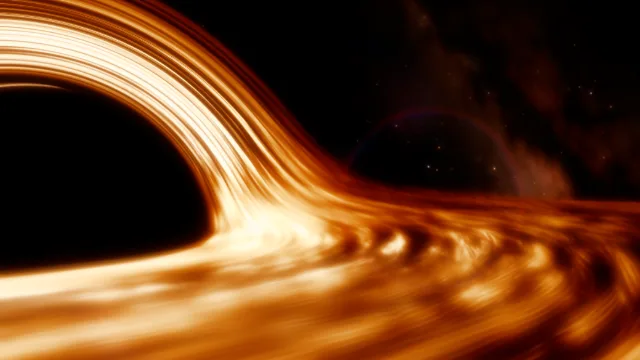
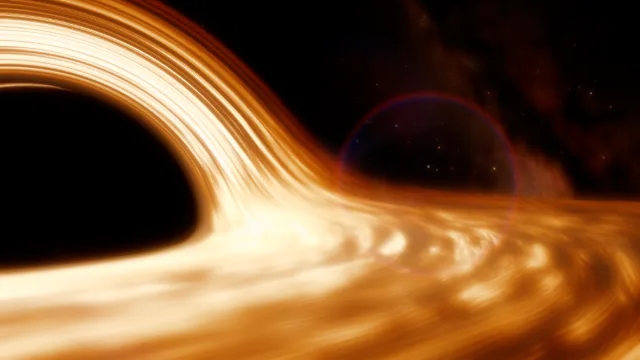
The disk's haze: a luminous mist over the near side, as in the film
- a thin scattering envelope hugging the volumetric disk (e^{-|z|/1.5H},
  vertical depth 0.2 x haze), lit by the disk's hot heart ((10/R)^2): a faint
  veil from above, grazing a luminous mist that thickens to the burnt band
  at the disk's horizon; its source and the gas's weighted by their depths
- setting "Haze" (Accretion disk, volumetric only); the film's close-pass
  preset at 0.6; negligible cost
- the flare's ring: its strength saturating (1.5 at most)

diff --git a/src/settings.ts b/src/settings.ts
@@ -85,6 +85,7 @@ export interface Settings {
   diskEmission: "visible" | "bolometric";
   diskTau: number; // vertical optical depth
   diskThickness: number; // scale height H/R (0 = infinitely thin slab)
+  diskHaze: number; // the scattering mist over the volumetric disk (0: none)
   flowPeriod: number; // M (no longer a setting: the GPU clock wraps after 1024 of them)
   // relativistic jet
   jet: boolean;
@@ -264,6 +265,7 @@ export function defaultSettings(): Settings {
     diskEmission: "visible",
     diskTau: 0.5,
     diskThickness: 0,
+    diskHaze: 0,
     flowPeriod: 90,
     jet: true,
     jetLorentz: 3,
@@ -424,7 +426,7 @@ export const presets: Record<string, Preset> = {
     spin: 0.6, distance: 17.353, inclination: 84.456, azimuth: 40.467, fov: 45, yaw: 31.427, pitch: 6.397, roll: -4.302,
     motion: "static", shiftMode: "none", diskTemp: 4500, diskOuter: 26, turbulence: 0.95, diskEmission: "bolometric",
     diskThickness: 0.009, diskTau: 59, jet: false, animate: false, time: 1692.84, tonemap: "Film", bloom: 0.5,
-    dof: true, dofAperture: 0.5, dofFocus: 0, lensFlare: 0.6,
+    dof: true, dofAperture: 0.5, dofFocus: 0, lensFlare: 0.6, diskHaze: 0.6,
   },
   // (a flight: the image never accumulates — the thin disk, crisp in motion, where the volume would be grainy)
   "Ranger: approaching Gargantua": {

diff --git a/src/ui/schema.ts b/src/ui/schema.ts
@@ -372,6 +372,12 @@ export const SCHEMA: ControlDef[] = [
     help: "Fibrous strands, flame-like wisps and dark lanes (the look of Interstellar's Gargantua), carried round on circular Keplerian orbits — each ring at its own rate, no spiral — modulating temperature and density.",
   },
   {
+    key: "diskHaze", type: "number", section: "matter", group: "Accretion disk", label: "Haze", min: 0, max: 2, step: 0.01, enabled: diskOn,
+    visible: (s) => s.diskThickness > 0,
+    help: "A thin scattering mist over the volumetric disk, lit by the disk below it: a faint veil seen from above, a luminous haze over the near side seen along the disk — thickening to the burnt band at its horizon, as in the film.",
+    keywords: "haze mist fog glow atmosphere scattering film interstellar",
+  },
+  {
     key: "limbDarkening", type: "toggle", section: "matter", group: "Accretion disk", label: "Limb darkening", enabled: diskOn,
     help: "Chandrasekhar electron-scattering atmosphere I ∝ 1 + 2.06 μ, with the emission angle measured in the fluid frame (thin disk).",
   },

diff --git a/src/renderer.ts b/src/renderer.ts
@@ -1030,7 +1030,7 @@ export class Renderer {
     set(25, s.polarization && !s.wormhole ? 1 : 0, s.polFraction, POL_FIELDS[s.polField], (s.polJetPitch * Math.PI) / 180);
     // returning radiation: offline renders only by default (≈ 6× the cost of the converged view)
     const ret = s.returningRadiation === "always" || (s.returningRadiation === "offline" && t !== this.live);
-    set(26, ret ? 1 : 0, s.diskAlbedo, 3000, 0);
+    set(26, ret ? 1 : 0, s.diskAlbedo, 3000, s.diskThickness > 0 ? s.diskHaze : 0);
     set(27, BANDS[s.band], s.radioTau, s.radioNuS, s.radioTe / 0.593);
     set(28, s.radioJet, s.hotFlowHR, 0, 0);
     set(29, s.hotSpot ? 1 : 0, Math.max(s.spotRadius, horizon(a) + 1.5 * s.spotSize), s.spotSize, s.spotTau);
